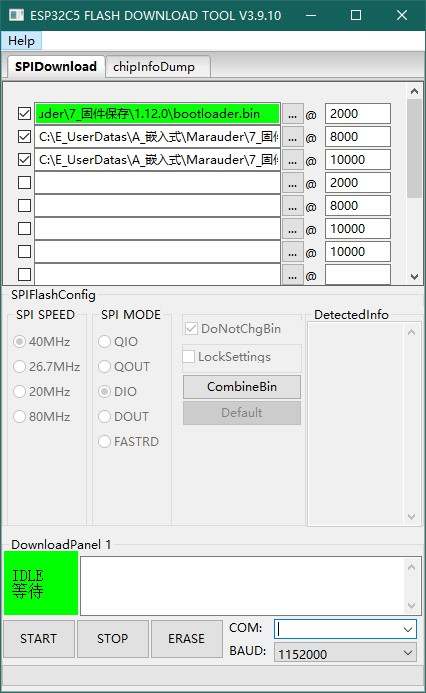
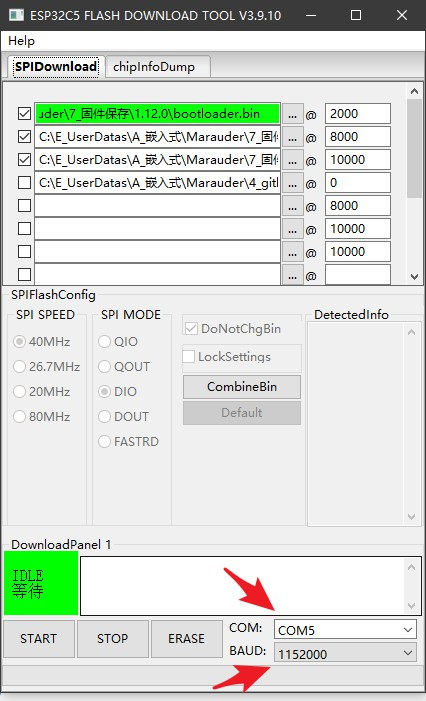
more detailed explanation

diff --git a/Developer_Board/README.md b/Developer_Board/README.md
@@ -90,61 +90,71 @@ Finally, thread the included lanyard through the hole at the lower-right corner 
 
 ![Step_8](./Step/rope.jpg)
 
-### Firmware Flashing and Debugging
+### Firmware Flashing and Debugging Guide:
 
-**1. Connect the Device to Your Computer**
+**1. Connect to the Computer**
 
-The board includes an onboard **CH340 USB-to-UART** chip and is powered through USB.
+The device is equipped with a CH340 chip and uses USB power. Therefore, regardless of whether the device is powered on or off, once you connect the device to a computer via a USB cable, a new COM port will appear. Through this COM port, you can perform firmware development, flashing, debugging, and other operations.
 
-Whether the device is powered on or off, connecting it to your computer with a USB cable will create a new **COM port**. This port can be used for firmware flashing, development, and serial debugging.
+If no COM port appears on your computer, first check whether your USB cable supports data transmission. Then check whether the CH340 driver has been installed correctly.
 
-If no COM port appears:
+You can download the CH340 driver here: [Driver](https://www.wch-ic.com/downloads/CH341SER_ZIP.html)
 
-- Make sure your USB cable supports data transfer (not charging only).
-- Verify that the CH340 driver is installed on your computer.
+**2. Prepare the Flashing Tool**
 
-CH340 Driver Download:
+You can use the official flashing tool provided by ESP32 for firmware flashing, or use other software with similar functions. In this guide, I will demonstrate using the official tool.
 
-[Driver](https://www.wch-ic.com/downloads/CH341SER_ZIP.html)
+First, prepare **ESP32DownloadTool**.
 
-**2. Flash the Firmware**
+You can download ESP32DownloadTool here: [DownloadTool](https://docs.espressif.com/projects/esp-test-tools/en/latest/esp32/production_stage/tools/flash_download_tool.html)
 
-You can flash firmware using the **ESP32 Download Tool**.
+Then prepare the firmware you want to flash.
 
-Prepare the firmware files you want to flash, then open **ESP32DownloadTool**.
+The **EIGHT** device is compatible with the **Marauder V8 firmware** developed by JustCallMekoko.
 
-Set:
+[Marauder V8 Firmware](https://github.com/justcallmekoko/ESP32Marauder)
 
-- **ChipType:** ESP32C5
-- Leave all other options at their default values.
+At the same time, we are also working on a Chinese translation based on this firmware. You can find the latest Chinese firmware here:
+
+[Chinese Firmware](./Chinese_Firmware)
+
+After opening ESP32DownloadTool, select **ESP32C5** as the **ChipType**, and keep all other options at their default settings.
 
 ![Step_5](./Step/ChipType.jpg)
 
-Select the required firmware files (bootloader, firmware, etc.) in the file selection area and configure their corresponding flash addresses.
+In the firmware selection area above, select the required files such as **bootloader**, **firmware**, etc., and configure their corresponding addresses.
 
-Select the newly created COM port in the lower-right corner.
+In the bottom-right corner, select the newly appeared COM port.
 
-Set the **BAUD** rate to the **highest available value**. **Be sure to select the highest baud rate—this is important.**
+In the bottom-right corner, set the **BAUD** rate to the maximum value. Make sure to select the highest baud rate (this is important).
 
 ![Step_6](./Step/download.jpg)
 
-ESP32 Download Tool:
+**3. Flashing the Firmware**
 
-[DownloadTool](https://docs.espressif.com/projects/esp-test-tools/en/latest/esp32/production_stage/tools/flash_download_tool.html)
+Please note: the device must remain powered off before starting.
 
-Keep the device powered **off**.
+First, click the **"START"** button in ESP32DownloadTool. The status will change to **"SYNC"**.
 
-Click **START** in ESP32DownloadTool. The software will enter a waiting state.
+![Step_9](./Step/sync.jpg)
 
-Now press the device's power button **once**. Flashing will begin automatically and typically takes around **10 seconds**.
+At this moment, power on the device. The program will automatically detect the device and start flashing the firmware.
 
-After flashing is complete:
+The flashing process takes approximately 10 seconds. After completion, the status will display **FINISH**.
 
-1. Disconnect the USB cable.
-2. Power the device off.
-3. Power it on again.
+<div>
+  <img src="./Step/downloadover.jpg" alt="Step_10" width="45%">
+  <img src="./Step/finish.jpg" alt="Step_11" width="45%">
+</div>
 
-The newly flashed firmware should now start running.
+After confirming that the flashing process is complete, click **"STOP"**.
+
+Then disconnect the USB cable, power off the device, and power it on again. The newly flashed firmware will now start running.
+
+![Step_10](./Step/stop.jpg)
+
+> [!WARNING]
+> During the device startup process, do not connect the device to a computer. Otherwise, the device may enter download mode instead of running the internal user firmware.
 
 ### Appendix: Charging Current
 

diff --git a/README.md b/README.md
@@ -9,6 +9,34 @@ This is the public repository for the **EIGHT** project. More files and resource
 > [!IMPORTANT]
 > **Disclaimer:** This device is intended **only** for lawful technical learning, research, analysis, and testing by qualified users. *(You should know exactly what you're doing.)*
 
+### Quick Start
+
+##### 1. Power Control
+
+- A button is located on the right side of the device.
+- **Press once** to power on the device.
+- **Press twice** to power off the device.
+
+---
+
+##### 2. Indicator LEDs
+
+Three indicator LEDs are located on the left side of the device. From top to bottom, they are:
+
+1. **System**
+2. **Charging**
+3. **Positioning**
+
+The status indications are described below:
+
+| Indicator | Color | On | Off | Flashing |
+|------------|--------|----|-----|----------|
+| **System** | Green | Device powered on | Device powered off | Brief and rapid flashing during touch interaction or normal operation |
+| **Charging** | Red | Battery charging | Charging completed | Battery fully charged and the system is being powered via USB |
+| **Positioning** | Blue |  | Looking for signals | Positioning successful |
+
+---
+
 ### Software Support
 
 The EIGHT device is compatible with **JustCallMeKoko's ESP32 Marauder V8 firmware**.

diff --git a/README_CN.md b/README_CN.md
@@ -6,6 +6,34 @@
 > [!IMPORTANT]
 > 再次声明：设备仅用作专业人员的合法技术学习和分析测试（你最好知道你自己在干什么）。
 
+### 快速入门
+
+##### 1. 电源控制
+
+- 设备右侧设有一个按键。
+- **单击一次** 开机。
+- **连续按两次** 关机。
+
+---
+
+##### 2. 指示灯说明
+
+设备左侧设有三个指示灯，从上到下分别为：
+
+1. **系统状态**
+2. **充电状态**
+3. **定位状态**
+
+具体状态说明如下：
+
+| 指示灯 | 颜色 | 常亮 | 熄灭 | 闪烁 |
+|------------|--------|----|-----|----------|
+| **系统状态** | 绿色 | 设备已开机 | 设备已关机 | 触摸操作或正常运行过程中短暂快速闪烁 |
+| **充电状态** | 红色 | 电池正在充电 | 充电完成 | 电池已充满，并通过 USB 为系统供电 |
+| **定位状态** | 蓝色 |  | 正在搜索信号 | 定位成功 |
+
+---
+
 ### 软件支持
 EIGHT设备兼容JustCallMekoko的Marauder V8固件。
 [Marauder V8固件](https://github.com/justcallmekoko/ESP32Marauder)